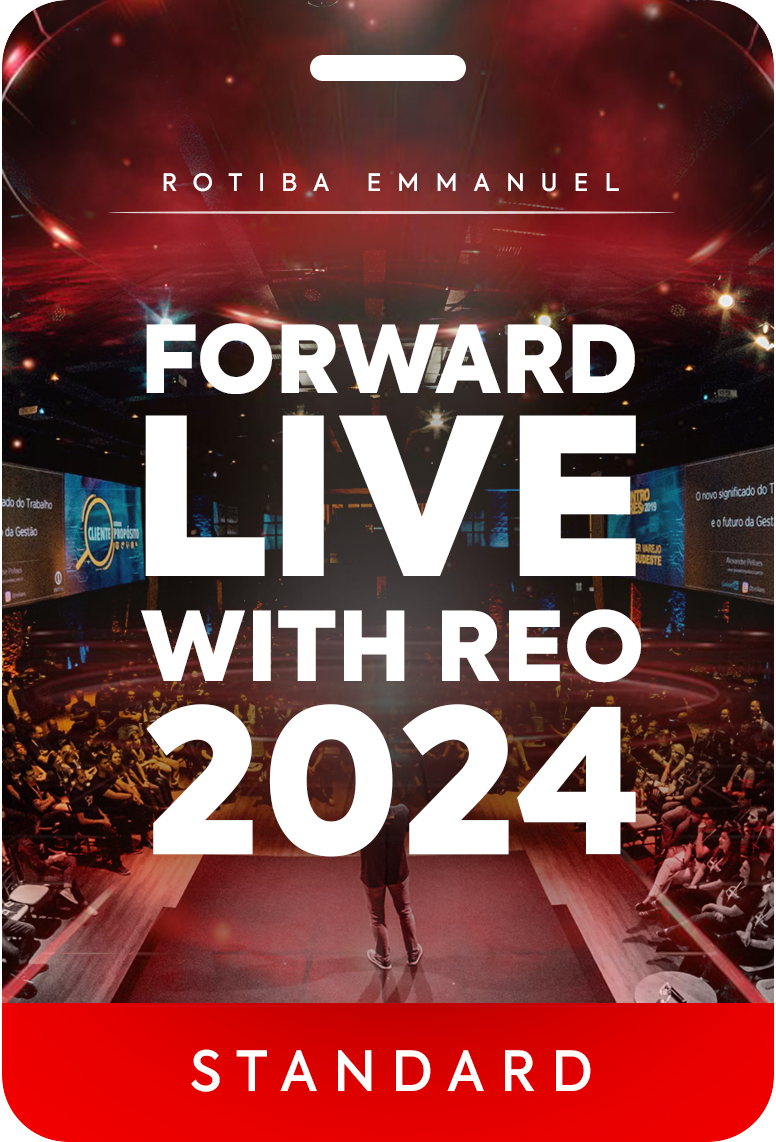
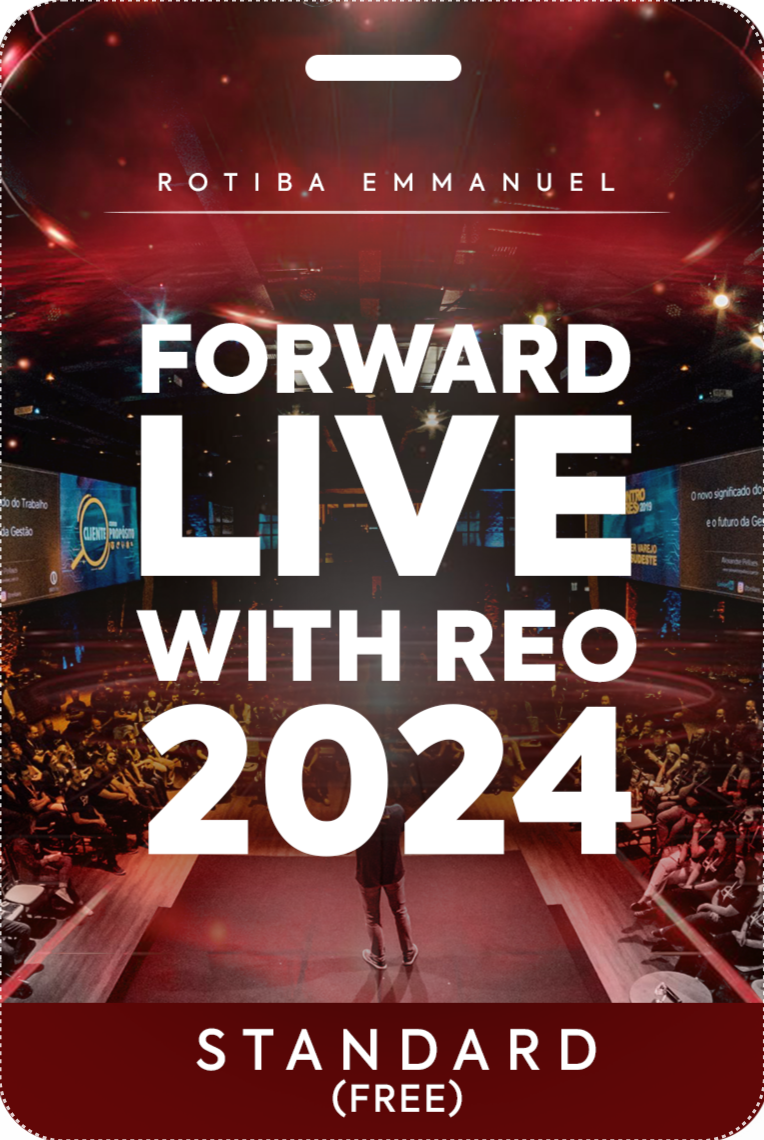
git add .

diff --git a/src/modules/price/index.tsx b/src/modules/price/index.tsx
@@ -107,19 +107,6 @@ export { PriceSection };
 const Tickets: Ticket[] = [
   {
     id: 9,
-    name: "Student Pass",
-    type: "individual",
-    includedFeatures: [
-      "Access to the event Experience, all keynote speeches and discussions",
-      "Networking Opportunities",
-      "General seating row",
-    ],
-    // home: "Home",
-    tick: "free",
-    back: "/student.png",
-  },
-  {
-    id: 1,
     name: "Standard Pass",
     type: "individual",
     includedFeatures: [
@@ -128,10 +115,7 @@ const Tickets: Ticket[] = [
       "General seating row",
     ],
     // home: "Home",
-    price: {
-      usd: "4",
-      naira: "5k",
-    },
+    tick: "free",
     back: "/stand.png",
   },
   {
